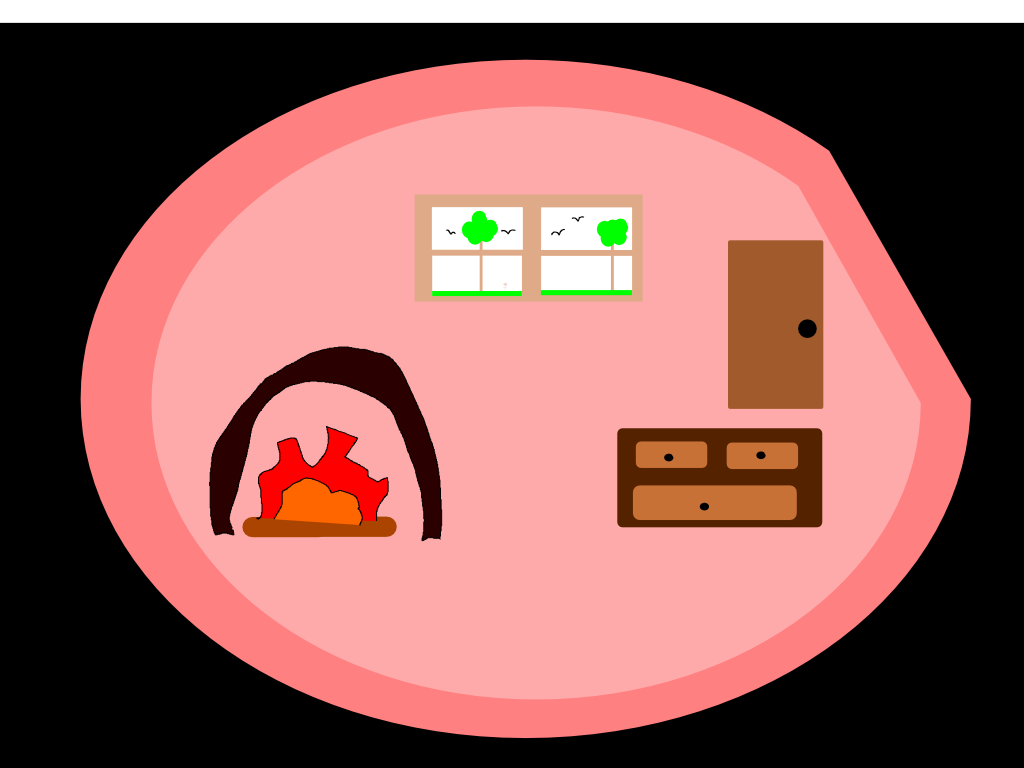
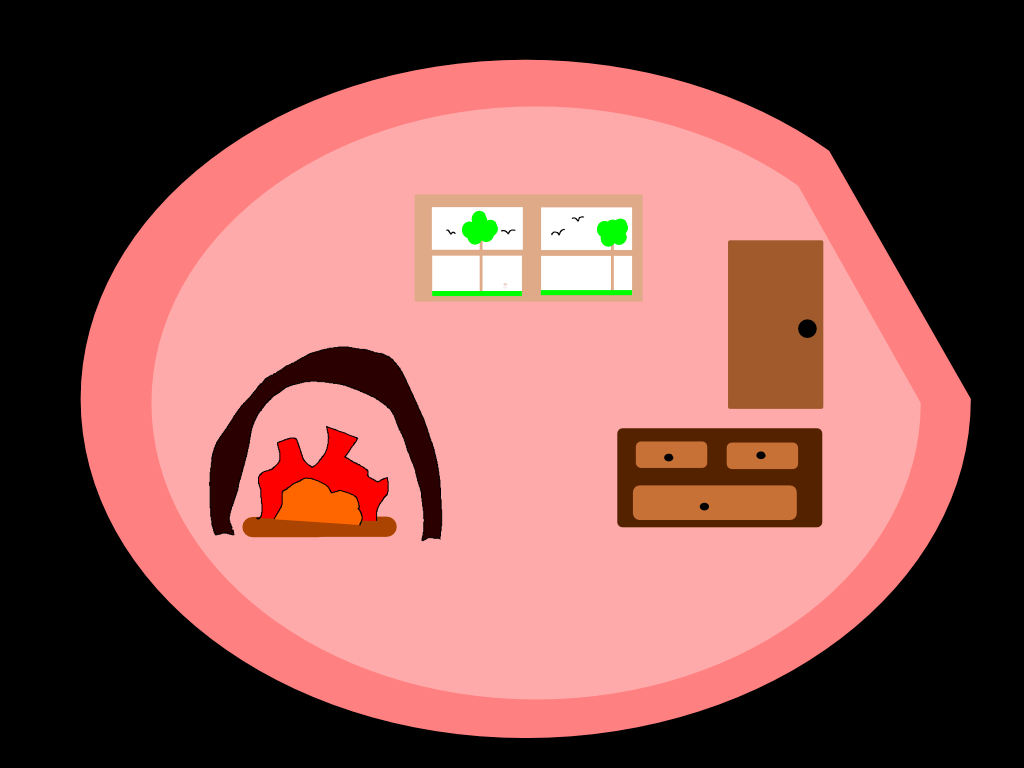
Changed backgrounds

Changed region(s): [[0.0, 0.0, 1.0, 0.0312]]

diff --git a/core/src/ml/derek/ggj2015/logic/Room.java b/core/src/ml/derek/ggj2015/logic/Room.java
@@ -2,8 +2,8 @@ package ml.derek.ggj2015.logic;
 
 import com.badlogic.gdx.graphics.g2d.TextureRegion;
 import com.badlogic.gdx.math.Vector2;
-import com.badlogic.gdx.utils.Array;
 import com.badlogic.gdx.utils.ObjectMap;
+import com.badlogic.gdx.utils.OrderedMap;
 
 /**
  * Created by Derek Sewell on 24/01/15.
@@ -16,7 +16,7 @@ public class Room
 	private TextureRegion background;
 
 	//Items for this room and their corresponding position
-	protected ObjectMap<Item, Vector2> items;
+	protected OrderedMap<Item, Vector2> items;
 
 	//The next room
 	private Room nextRoom;
@@ -24,7 +24,7 @@ public class Room
 	public Room(TextureRegion background)
 	{
 		this.background = background;
-		items = new ObjectMap<Item, Vector2>();
+		items = new OrderedMap<Item, Vector2>();
 	}
 
 	/** Adds an item to the room **/
@@ -38,7 +38,7 @@ public class Room
 		return background;
 	}
 
-	public ObjectMap<Item,Vector2> getItems()
+	public OrderedMap<Item,Vector2> getItems()
 	{
 		return items;
 	}

diff --git a/core/src/ml/derek/ggj2015/collections/rooms/Womb.java b/core/src/ml/derek/ggj2015/collections/rooms/Womb.java
@@ -3,6 +3,7 @@ package ml.derek.ggj2015.collections.rooms;
 import com.badlogic.gdx.graphics.Texture;
 import com.badlogic.gdx.graphics.g2d.TextureRegion;
 import com.badlogic.gdx.math.Vector2;
+import ml.derek.ggj2015.collections.items.Fire;
 import ml.derek.ggj2015.collections.items.Key;
 import ml.derek.ggj2015.logic.Room;
 
@@ -15,7 +16,9 @@ public class Womb extends Room
 {
 	public Womb()
 	{
-		super(new TextureRegion(new Texture("backgrounds/womb.jpg")));
-		items.put(new Key(), new Vector2(40, 40));
+		super(new TextureRegion(new Texture("backgrounds/womb.png")));
+		items.put(new Key(), new Vector2(251, 521));
+		items.put(new Fire(), new Vector2(251, 521));
+
 	}
 }

diff --git a/core/src/ml/derek/ggj2015/collections/items/Fire.java b/core/src/ml/derek/ggj2015/collections/items/Fire.java
@@ -1,0 +1,28 @@
+package ml.derek.ggj2015.collections.items;
+
+import com.badlogic.gdx.graphics.Texture;
+import com.badlogic.gdx.graphics.g2d.TextureRegion;
+import com.badlogic.gdx.utils.Array;
+import ml.derek.ggj2015.logic.Item;
+import ml.derek.ggj2015.logic.Room;
+
+/**
+ * Created by Derek Sewell on 24/01/15.
+ * Copyright © 2015 Derek Sewell.
+ * All rights reserved.
+ */
+public class Fire extends Item
+{
+	public Fire()
+	{
+		super(new TextureRegion(new Texture("badlogic.jpg")));
+	}
+
+	@Override
+	public void onClick(Room room, Array<Item> inventory)
+	{
+		destory(room, inventory);
+	}
+}
+
+

diff --git a/core/src/ml/derek/ggj2015/logic/Item.java b/core/src/ml/derek/ggj2015/logic/Item.java
@@ -53,4 +53,12 @@ public class Item
 	{
 		return size;
 	}
+
+	public void destory(Room room, Array<Item> inventory)
+	{
+		room.getItems().remove(this);
+		inventory.removeValue(this, false);
+		this.texture.getTexture().dispose();
+		this.texture = null;
+	}
 }

diff --git a/core/src/ml/derek/ggj2015/InputManager.java b/core/src/ml/derek/ggj2015/InputManager.java
@@ -41,6 +41,9 @@ public class InputManager
 				{
 					Gdx.app.log("input", "Item clicked");
 					item.onClick(room, inventory);
+
+					//Can only click once per frame
+					return;
 				}
 			}
 		}
